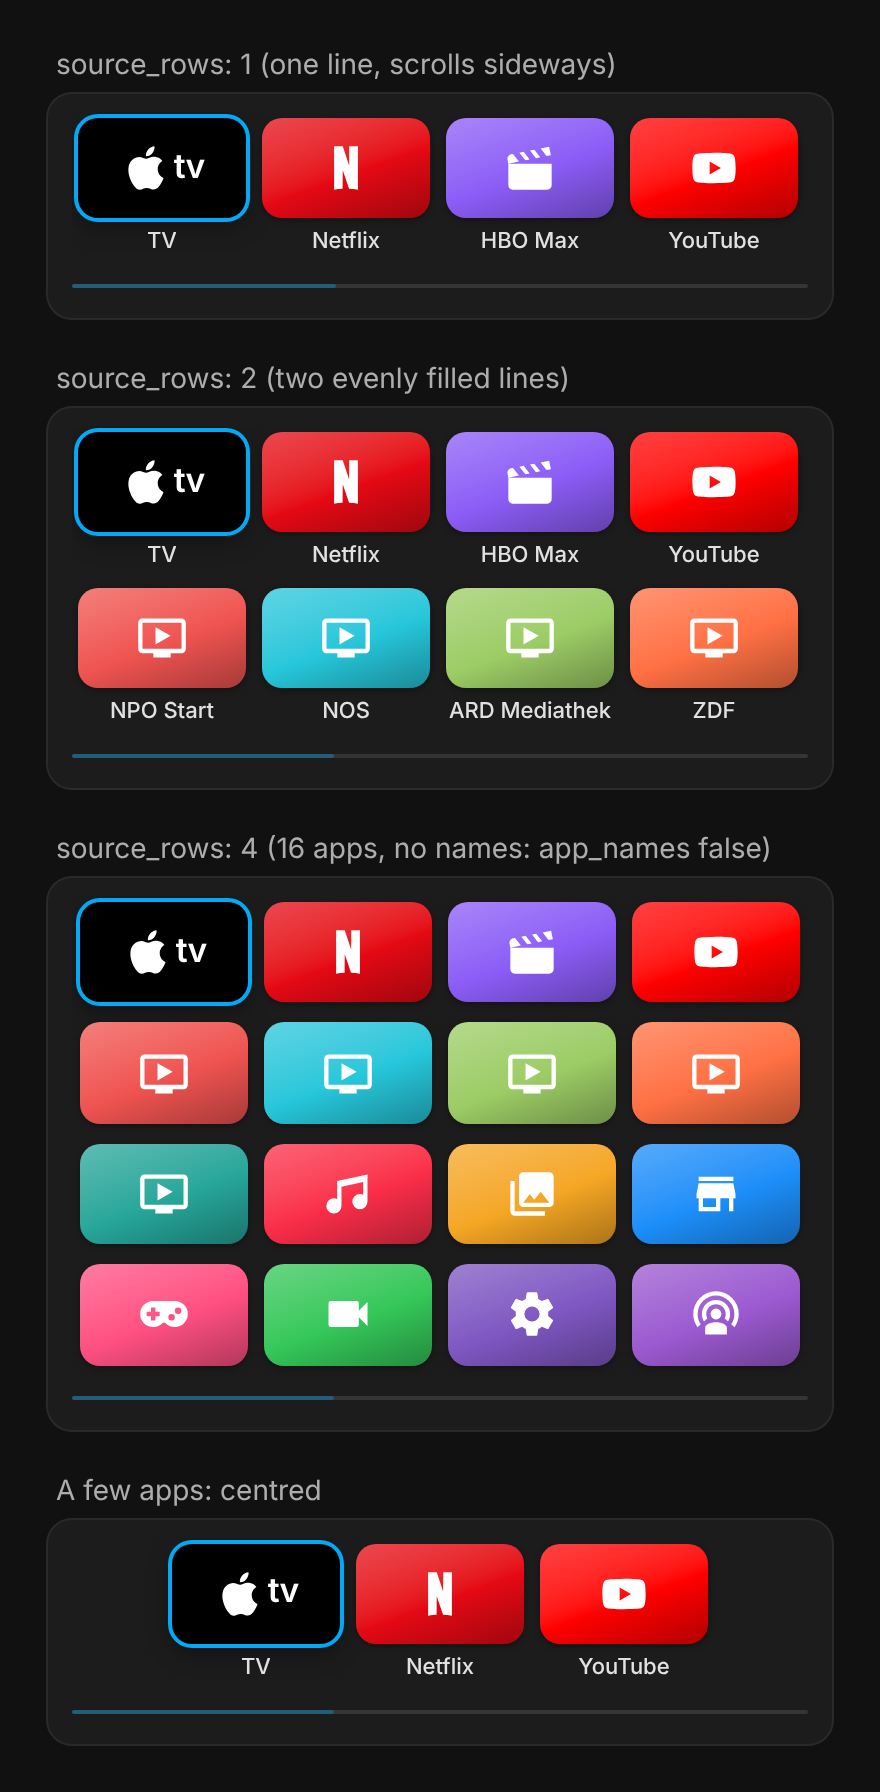
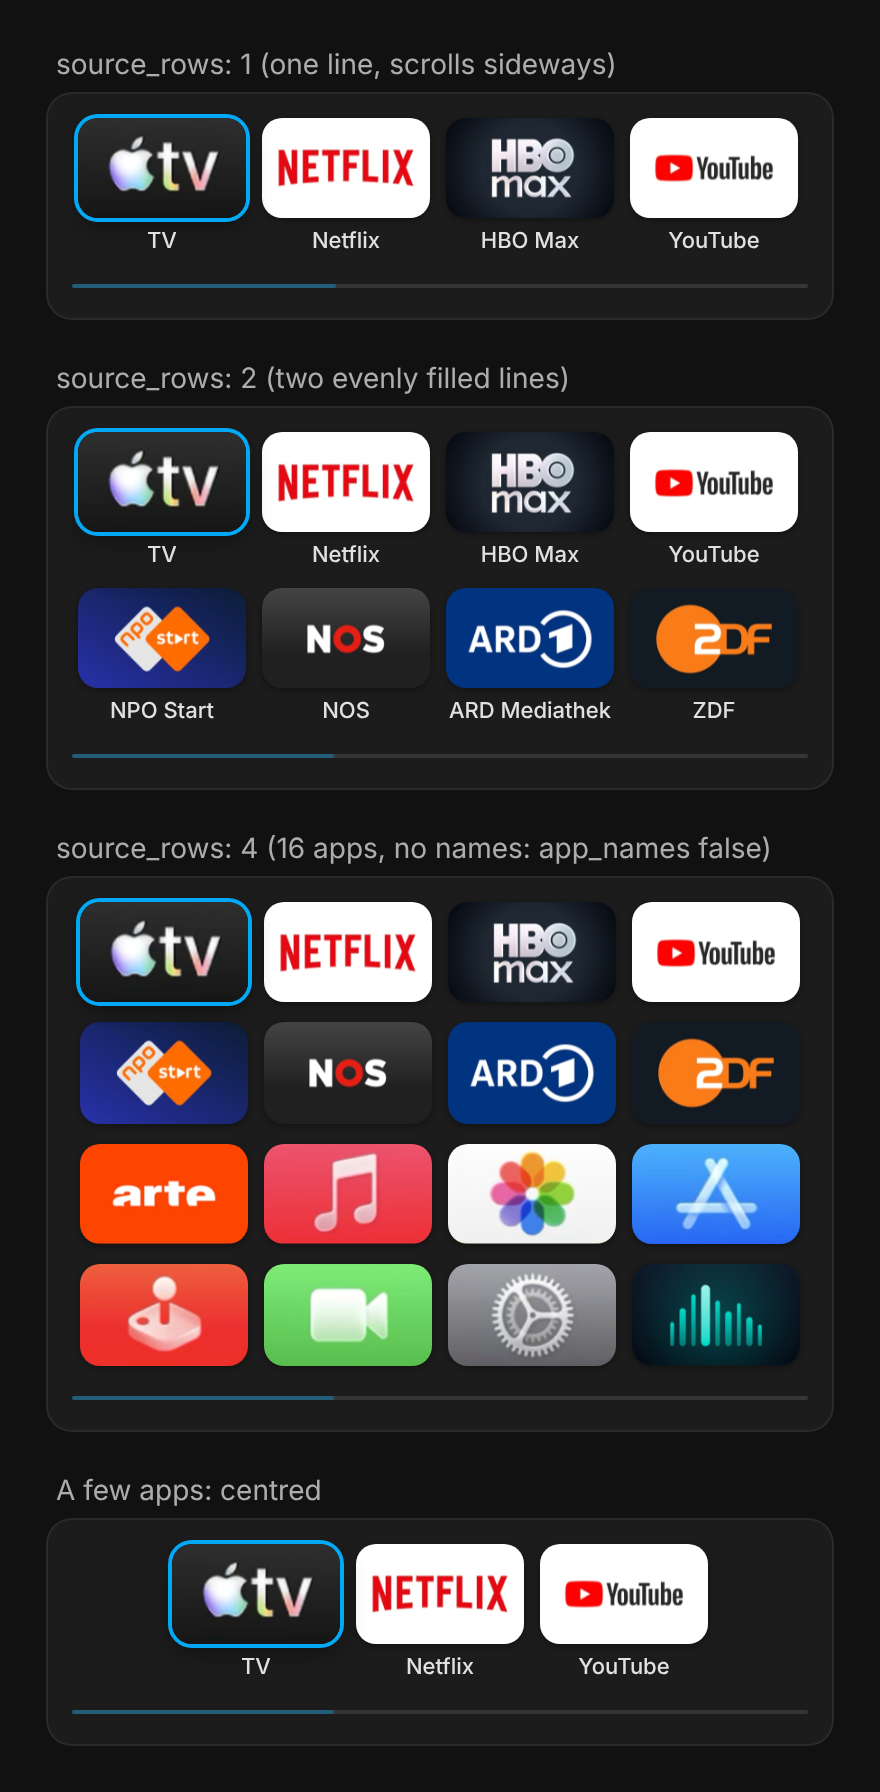
README pictures from the real card
Claude-Session: https://claude.ai/code/session_01BrPBf5XtdTnH7GwtJmgM8s

diff --git a/README.md b/README.md
@@ -11,7 +11,7 @@ progress bar you can drag.
 It builds on the core `apple_tv` integration (pyatv). The card uses its remote / media player entities for the basics; the
 integration adds websocket commands for what core doesn't expose: touch events, held keys, skip, volume-based mute.
 
-![Apple TV Remote](images/hero.png?v=2)
+![Apple TV Remote](images/hero.png?v=3)
 
 <sub>Images are rendered from the card's own code with sample data, dark theme. The card follows your HA theme.</sub>
 
@@ -76,7 +76,7 @@ show_border: false
 
 ## How it works
 
-![Card](images/card.png?v=2)
+![Card](images/card.png?v=3)
 
 ### Touchpad
 
@@ -89,7 +89,7 @@ rewind). Moving the finger further out or back steps the speed up or down; what 
 
 ### Circle to scrub
 
-![Jog ring](images/card-ring.png?v=2)
+![Jog ring](images/card-ring.png?v=3)
 
 With `circle_scrub` on, a faint ring sits round the logo. Going round scrubs: clockwise forward, anticlockwise back, for as
 long as you keep turning.
@@ -124,24 +124,24 @@ to restore (`mute_hold`).
 
 ### Keyboard
 
-![Keyboard](images/card-keyboard.png?v=2)
+![Keyboard](images/card-keyboard.png?v=3)
 
 The core integration has a *Keyboard focus* binary sensor (often hidden). When it turns on, the text box opens and input
 goes straight to the Apple TV. The keyboard button toggles it by hand when focus isn't reported.
 
 ### Quick settings
 
-![Settings](images/card-settings.png?v=2)
+![Settings](images/card-settings.png?v=3)
 
 The cogwheel on the pad: swipe sensitivity, circle speed / acceleration per app (applies to the app on screen, or to all
 apps when none is open), skip seconds, haptics, tile rows, app names, and the app list (show / hide, drag to reorder,
 rename). Changes are written back to the card's config on the dashboard, so they apply to everyone. Admins only.
 
-![App settings](images/card-settings-apps.png?v=2)
+![App settings](images/card-settings-apps.png?v=3)
 
 ### App tiles
 
-![Tiles](images/tiles.png?v=2)
+![Tiles](images/tiles.png?v=3)
 
 - One tile per app the Apple TV reports. More than fit (`tiles_across` × `source_rows`) go on pages; a swipe moves one page.
 - `source_order` is both filter and order. Empty = all.
@@ -175,12 +175,12 @@ Every option except the per-app maps (`circle_turn_apps`, `hold_profiles`) is in
 buttons on top, then *App tiles*, *Touchpad* (swipe and hold, circle scrubbing, player buttons) and *Advanced* (remote and
 keyboard sensor, found automatically). Only changed options are saved to YAML.
 
-![Editor](images/editor.png?v=2)
+![Editor](images/editor.png?v=3)
 
 *App tiles* lists the apps your Apple TV reports: drag to reorder, the eye to hide, **Select** for bulk hide / show,
 **Show all apps again** and **Check setup**.
 
-| ![App list](images/editor-apps.png?v=2) | ![Select](images/editor-select.png?v=2) |
+| ![App list](images/editor-apps.png?v=3) | ![Select](images/editor-select.png?v=3) |
 |---|---|
 
 ### Talking to the Apple TV

diff --git a/custom_components/apple_tv_remote/README.md b/custom_components/apple_tv_remote/README.md
@@ -11,7 +11,7 @@ progress bar you can drag.
 It builds on the core `apple_tv` integration (pyatv). The card uses its remote / media player entities for the basics; the
 integration adds websocket commands for what core doesn't expose: touch events, held keys, skip, volume-based mute.
 
-![Apple TV Remote](images/hero.png?v=2)
+![Apple TV Remote](images/hero.png?v=3)
 
 <sub>Images are rendered from the card's own code with sample data, dark theme. The card follows your HA theme.</sub>
 
@@ -76,7 +76,7 @@ show_border: false
 
 ## How it works
 
-![Card](images/card.png?v=2)
+![Card](images/card.png?v=3)
 
 ### Touchpad
 
@@ -89,7 +89,7 @@ rewind). Moving the finger further out or back steps the speed up or down; what 
 
 ### Circle to scrub
 
-![Jog ring](images/card-ring.png?v=2)
+![Jog ring](images/card-ring.png?v=3)
 
 With `circle_scrub` on, a faint ring sits round the logo. Going round scrubs: clockwise forward, anticlockwise back, for as
 long as you keep turning.
@@ -124,24 +124,24 @@ to restore (`mute_hold`).
 
 ### Keyboard
 
-![Keyboard](images/card-keyboard.png?v=2)
+![Keyboard](images/card-keyboard.png?v=3)
 
 The core integration has a *Keyboard focus* binary sensor (often hidden). When it turns on, the text box opens and input
 goes straight to the Apple TV. The keyboard button toggles it by hand when focus isn't reported.
 
 ### Quick settings
 
-![Settings](images/card-settings.png?v=2)
+![Settings](images/card-settings.png?v=3)
 
 The cogwheel on the pad: swipe sensitivity, circle speed / acceleration per app (applies to the app on screen, or to all
 apps when none is open), skip seconds, haptics, tile rows, app names, and the app list (show / hide, drag to reorder,
 rename). Changes are written back to the card's config on the dashboard, so they apply to everyone. Admins only.
 
-![App settings](images/card-settings-apps.png?v=2)
+![App settings](images/card-settings-apps.png?v=3)
 
 ### App tiles
 
-![Tiles](images/tiles.png?v=2)
+![Tiles](images/tiles.png?v=3)
 
 - One tile per app the Apple TV reports. More than fit (`tiles_across` × `source_rows`) go on pages; a swipe moves one page.
 - `source_order` is both filter and order. Empty = all.
@@ -175,12 +175,12 @@ Every option except the per-app maps (`circle_turn_apps`, `hold_profiles`) is in
 buttons on top, then *App tiles*, *Touchpad* (swipe and hold, circle scrubbing, player buttons) and *Advanced* (remote and
 keyboard sensor, found automatically). Only changed options are saved to YAML.
 
-![Editor](images/editor.png?v=2)
+![Editor](images/editor.png?v=3)
 
 *App tiles* lists the apps your Apple TV reports: drag to reorder, the eye to hide, **Select** for bulk hide / show,
 **Show all apps again** and **Check setup**.
 
-| ![App list](images/editor-apps.png?v=2) | ![Select](images/editor-select.png?v=2) |
+| ![App list](images/editor-apps.png?v=3) | ![Select](images/editor-select.png?v=3) |
 |---|---|
 
 ### Talking to the Apple TV
